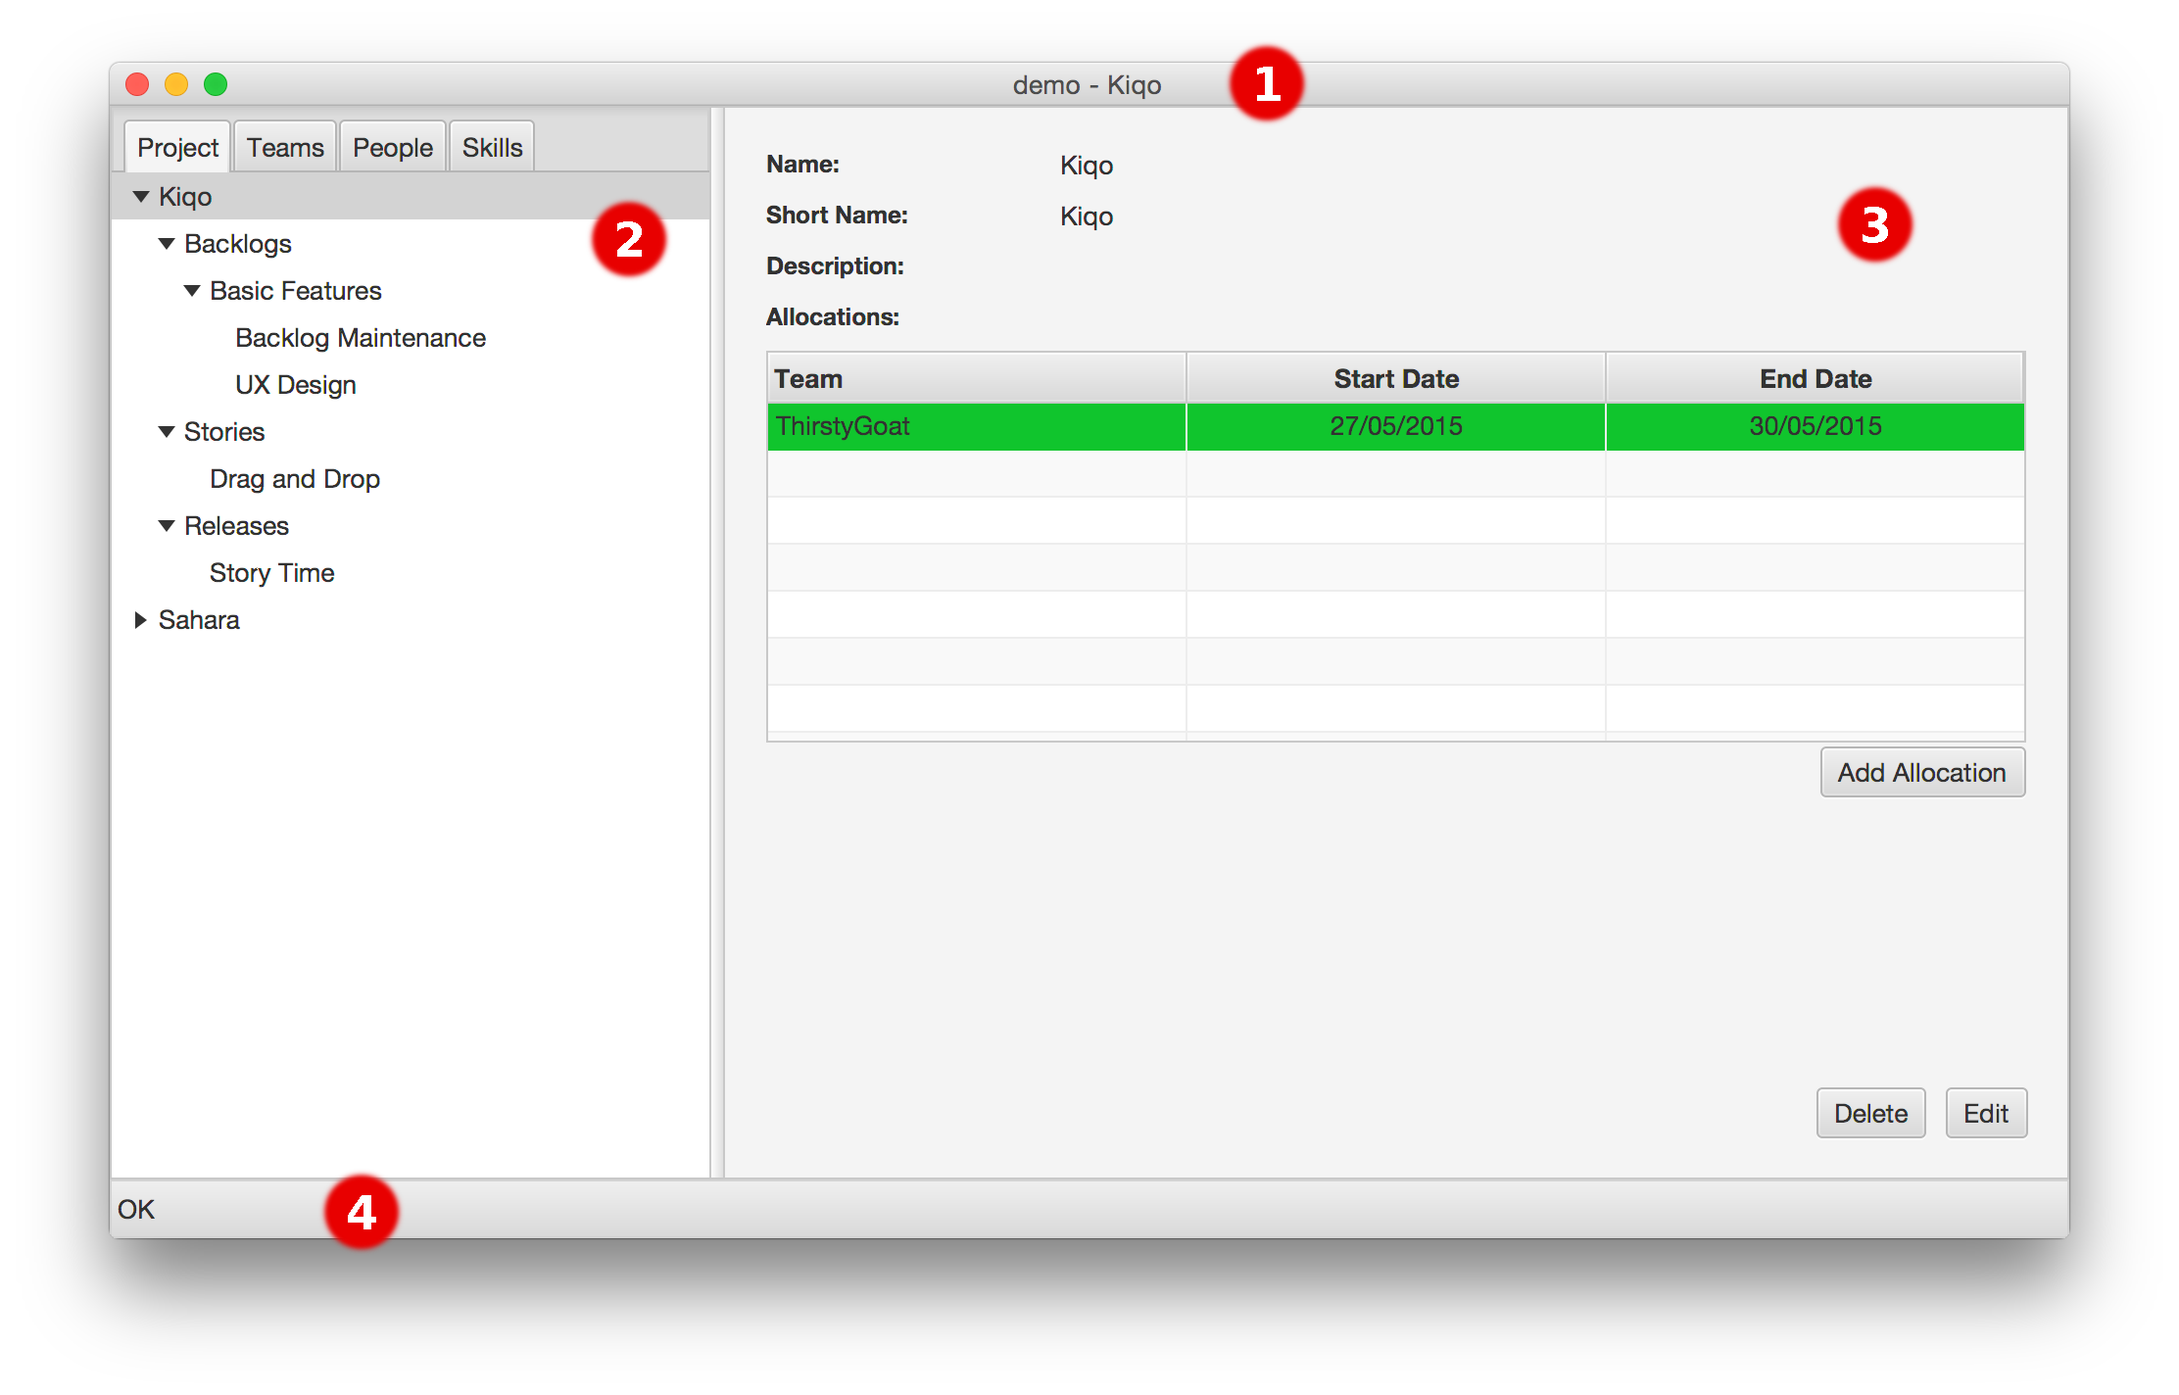
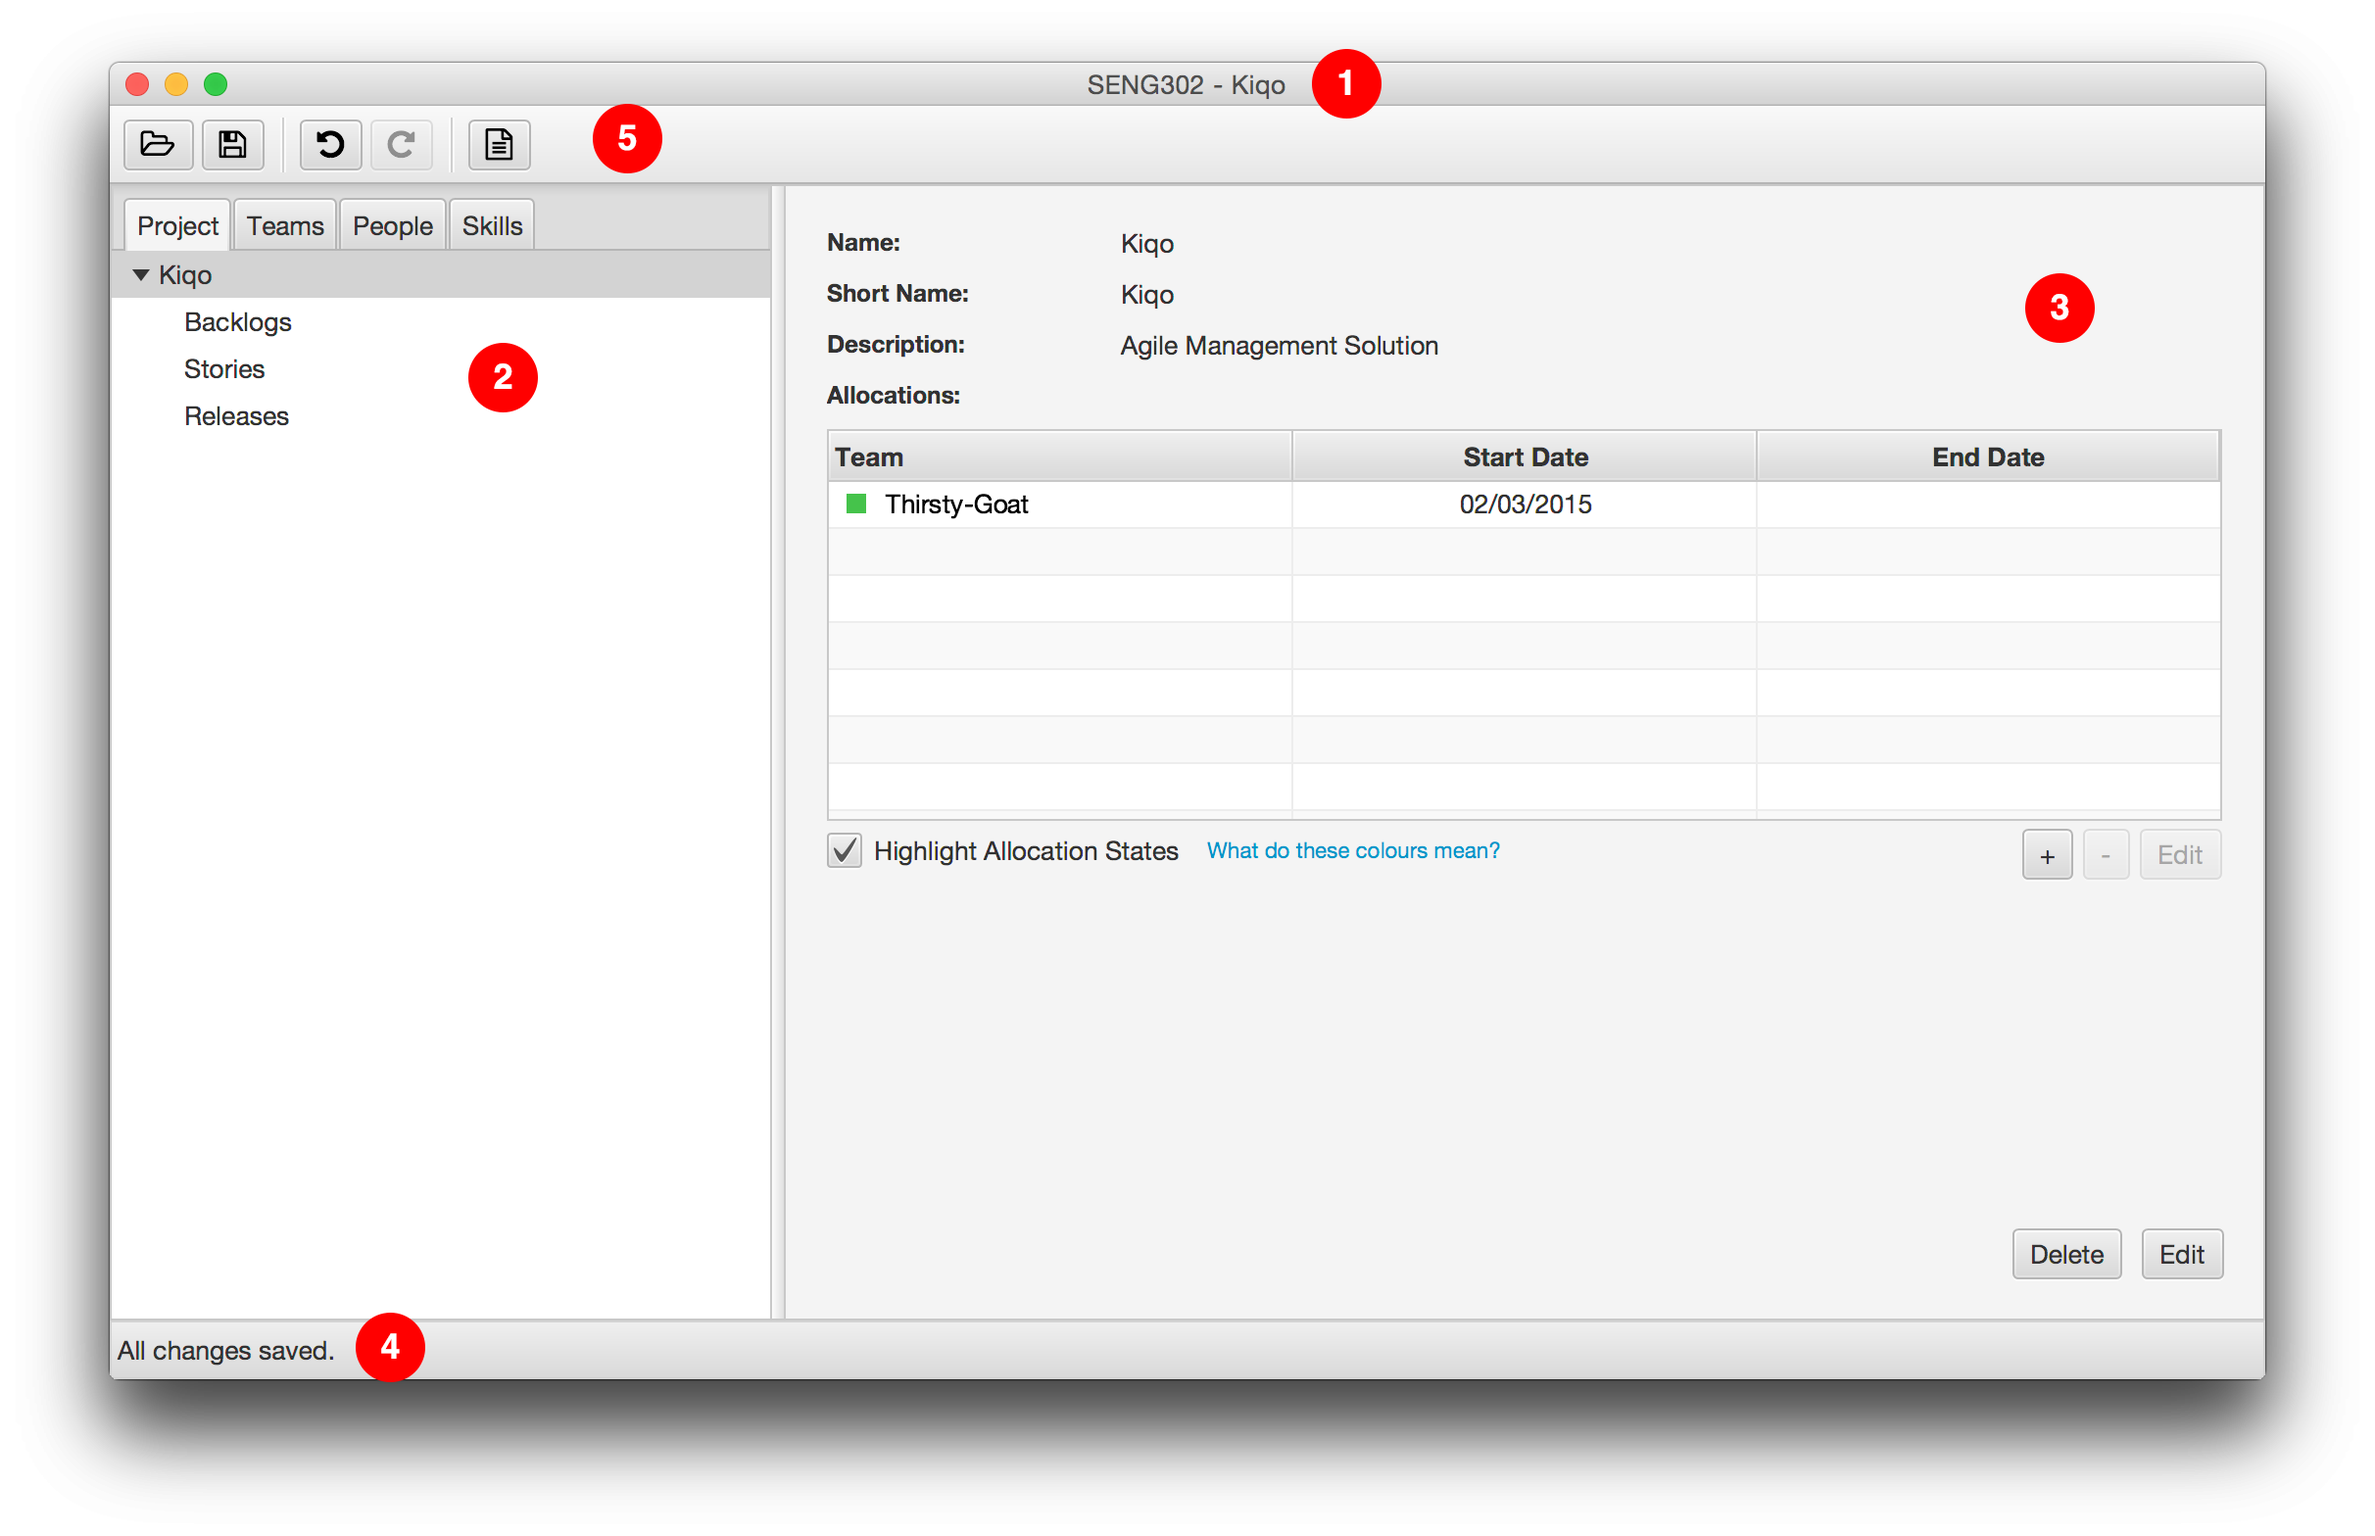
Added toolbar to userguide.
story:279

Fixed userguide capitalization and phrasing issues.

story:279

Added toolbar to userguide.

story:279

Updated userguide to include toolbar shortcut and updated the mainwindow image
story:279

Author:    Amy Martin <akm96@uclive.ac.nz>
Date:      Mon Aug 3 13:38:11 2015 +1200

Changed region(s): [[0.031, 0.0309, 0.9928, 0.9579], [0.8377, 0.1236, 0.8997, 0.2163]]

diff --git a/src/site/tex/user_guide.tex b/src/site/tex/user_guide.tex
@@ -107,8 +107,13 @@ There are three ways of changing the view to show relevant information.
       \item By using the keyboard shortcuts \keys{\ctrl + 1-4}
     \end{itemize}
     The items shown in the sidebar are automatically sorted in alphabetical order.
-\item Details viewer - The details viewer displays the details of the item selected in the side bar.
-\item Status bar - The status bar indicates if there are any unsaved changes.
+\item Details pane - The details pane displays more information about the selected item.
+\item Status bar - The status bar indicates whether there are any unsaved changes.
+\item Toolbar - The toolbar provides quick access to common tasks.
+    \begin{itemize}
+      \item From the menu bar, use \menu{View > Toolbar} and select the item.
+      \item By using the keyboard shortcuts \keys{\ctrl + /}
+    \end{itemize}
 \end{enumerate}
 
 
@@ -171,7 +176,7 @@ New skills can be created, edited and deleted.
 \section{Teams, Roles \& Allocations}
 \subsection{Team Maintenance (including Roles)}
 \begin{itemize}
-  \item Adding a new team to the Project displays the team in the Teams list view.
+  \item Adding a new team to the project displays the team in the Teams list view.
   \item The members of the selected team are displayed in the team details pane.
   \item In edit or create team, use the person selection pane and click the > arrow to add one person to a team
   or >> to add all available people.
@@ -184,7 +189,7 @@ New skills can be created, edited and deleted.
 \begin{itemize}
   \item Teams can be allocated to projects. A team can only be allocated to one project at a time.
   \item In the project tab a team can be allocated to a project by clicking the 'Allocate Teams'.
-  \item Select a team from the from the dropdown list in create Allocation dialog and choose a start and an end date.
+  \item Select a team from the from the dropdown list in create allocation dialog and choose a start and an end date.
   \item Edit an allocation by clicking on a row and then changing the start or end date with the date picker.
   \item Delete an allocation by right clicking on its row and selecting 'Delete Allocation'.
 \end{itemize}
@@ -253,9 +258,9 @@ The status of a task can be set as one of the following (Not started, In Progres
 \subsubsection{Readiness}
 A story can be marked as ready when the following criteria are met:
 \begin{itemize}
-\item the story belongs to a Backlog
+\item the story belongs to a backlog
 \item the story is estimated
-\item the story has at least one Acceptance Criterion
+\item the story has at least one acceptance criterion
 \end{itemize}
 
 \subsubsection{Dependencies}
@@ -278,11 +283,9 @@ they begin)
 \section{Report Generation}
 The report generator gives the user the ability to generate reports in yaml format (http://yaml.org).
 \begin{itemize}
-  \item \menu{File > Generate > Status Report} Opens a dialog prompting you for the type of items to be in the report
-  e.g. Projects, Teams, People etc. You can then select which of these items will be in the report e.g. Team 1 and
-  Team 3.
-  \item Clicking \keys{Generate Report} Prompts you for a valid save location on the local disk drive.
-  \item Clicking \keys{Save} will generate the report and save it to the location set previously.
+  \item \menu{File > Generate > Status Report} opens a dialog prompting you for the type of items to include in the report and the particular items to include.
+  \item Clicking \keys{Generate Report} prompts you for a valid save location on the local disk drive.
+  \item Clicking \keys{Save} will generate and save the report.
 \end{itemize}
 
 \begin{figure}[H]
@@ -347,7 +350,8 @@ Search gives the user the ability to find items that match a search query.
     Redo & \keys{\ctrl + \shift + Z} \\
     Edit Selected Item & \keys{\ctrl + E} \\
     Delete Selected Item & \keys{\ctrl + D} \\
-    Hide/Show List Pane  &  \keys{\ctrl + L} \\
+    Show/Hide Toolbar  &  \keys{\ctrl + /} \\
+    Show/Hide List Pane  &  \keys{\ctrl + L} \\
     Switch Tabs & \keys{\ctrl + 1-4} \\
     \bottomrule
   \end{tabular}
